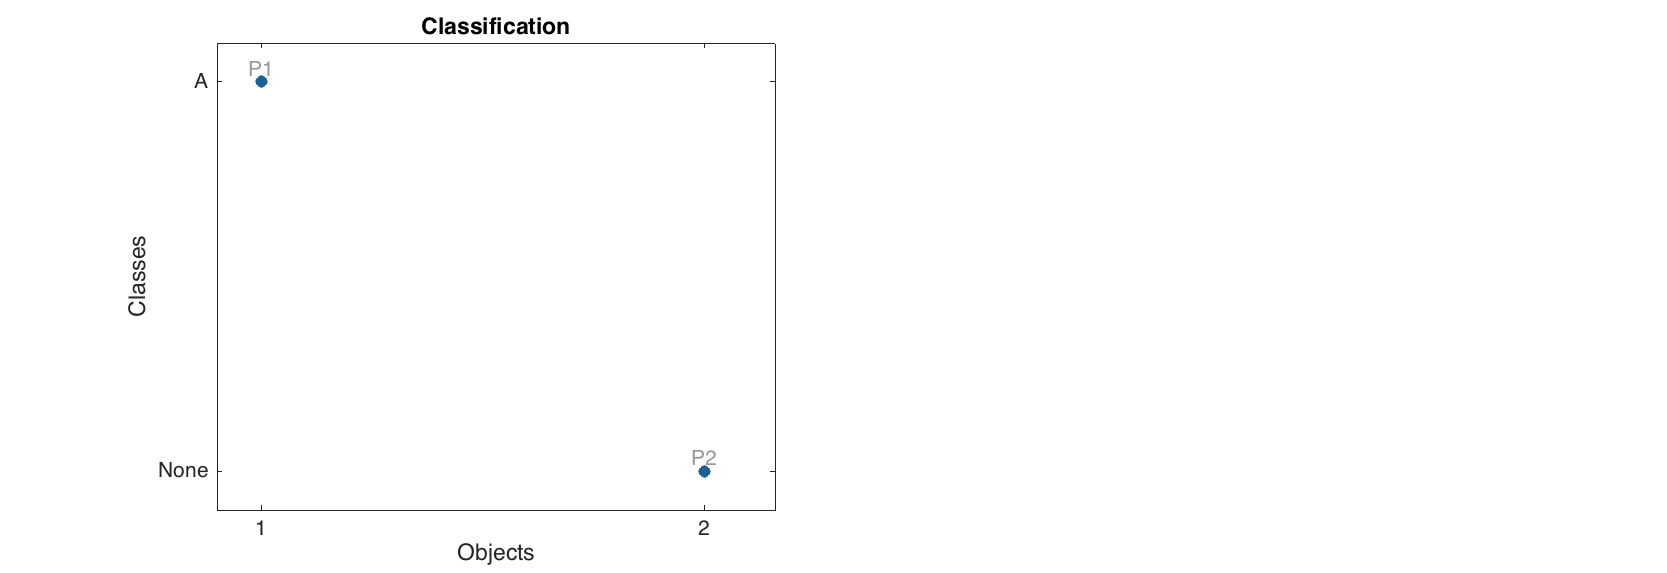
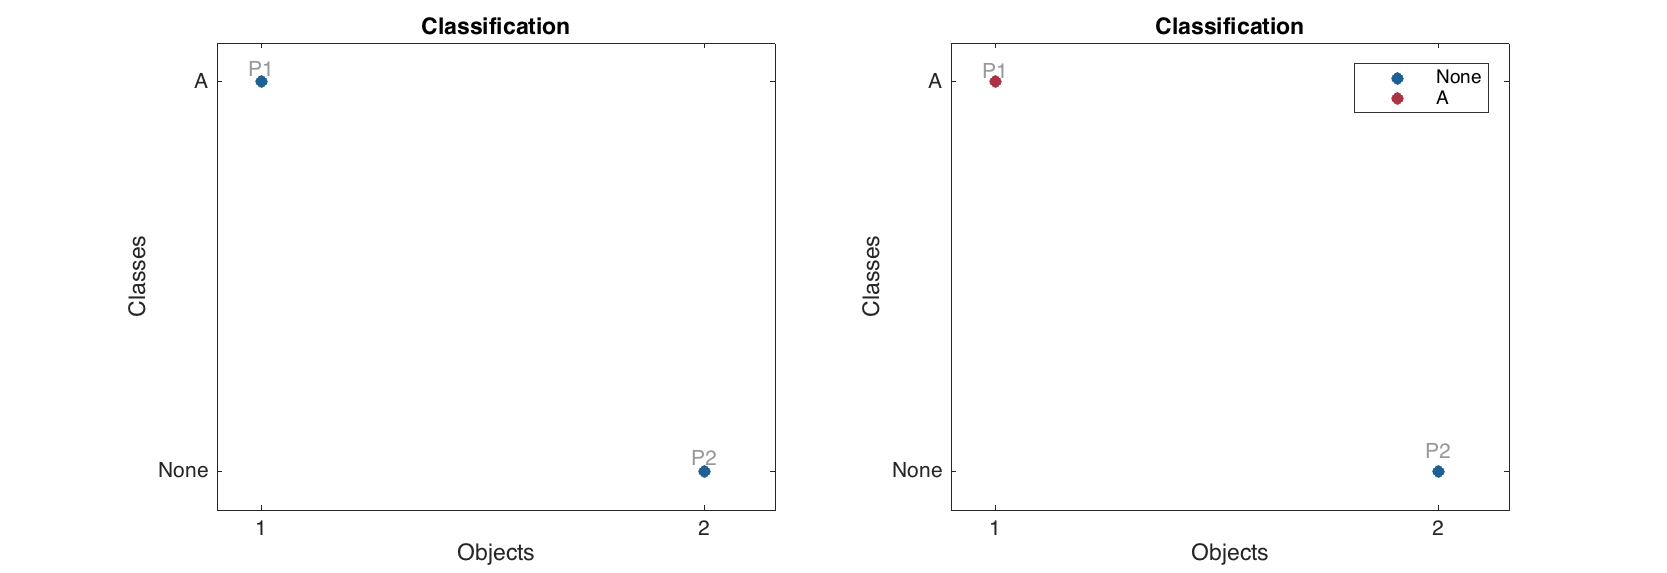
updates for plots (chapter 7)

diff --git a/chapter7/figures.m b/chapter7/figures.m
@@ -134,24 +134,20 @@ p2 = [179 76 -1 42 43 19000 185 180 -1 85 120];
 % create a dataset
 p = mdadata([p1; p2], {'P1', 'P2'}, X.colNames);
 
-% make predictions and show results
-res = m.predict(p);
+% make predictions without reference values
+res1 = m.predict(p);
+
+% make predictions with reference values
+res2 = m.predict(p, [true; false]);
 
 nfig = 5;
+% show results
 figure
 subplot 121
-plotclassification(res, 'Labels', 'names')
-
+plotclassification(res1, 'Labels', 'names')
+subplot 122
+plotclassification(res2, 'Labels', 'names')
 printplot(gcf, sprintf('%s/fig%d.png', figfolder, nfig), [figw * 2, figh * 1], 'png', '-r150')
 
 
-% make predictions and show results
-res = m.predict(p, [true; false]);
-
-figure
-subplot 121
-plotclassification(res, 'Labels', 'names')
-
-
-summary(res)
 
